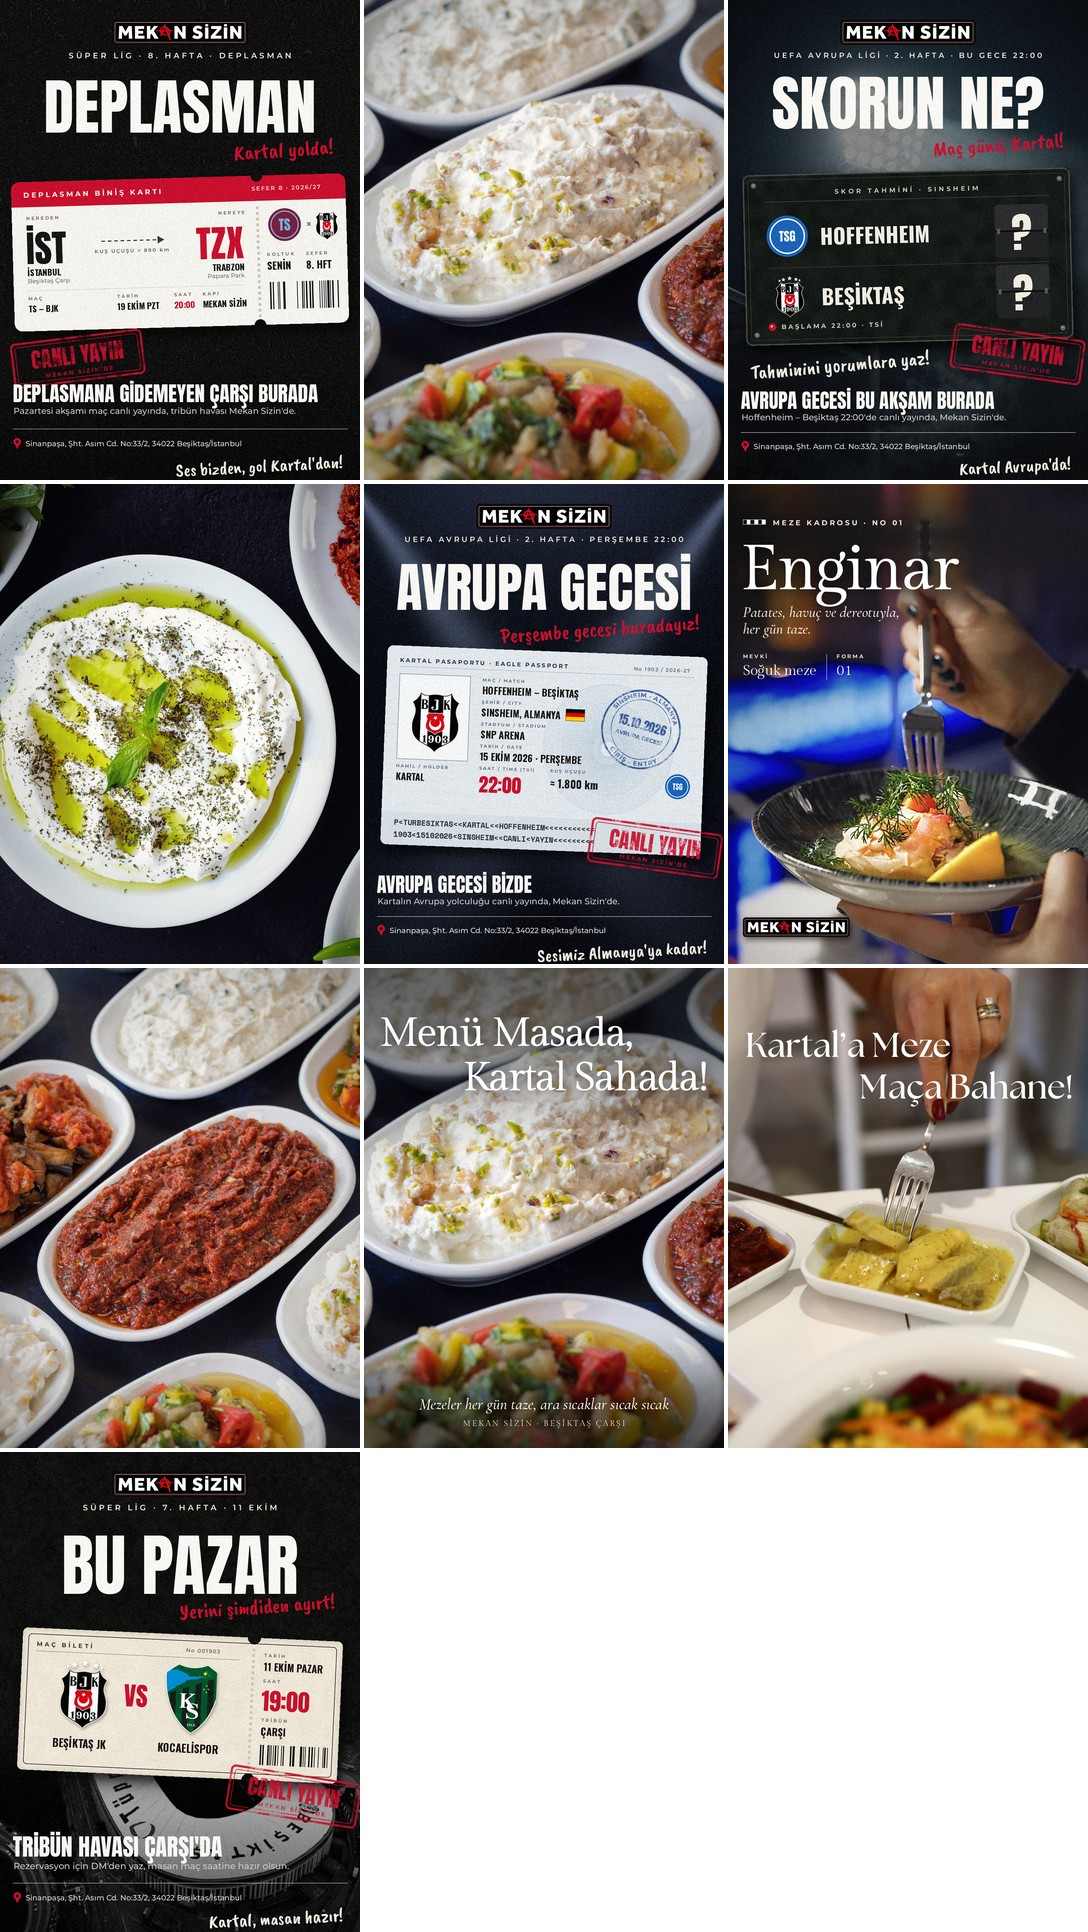
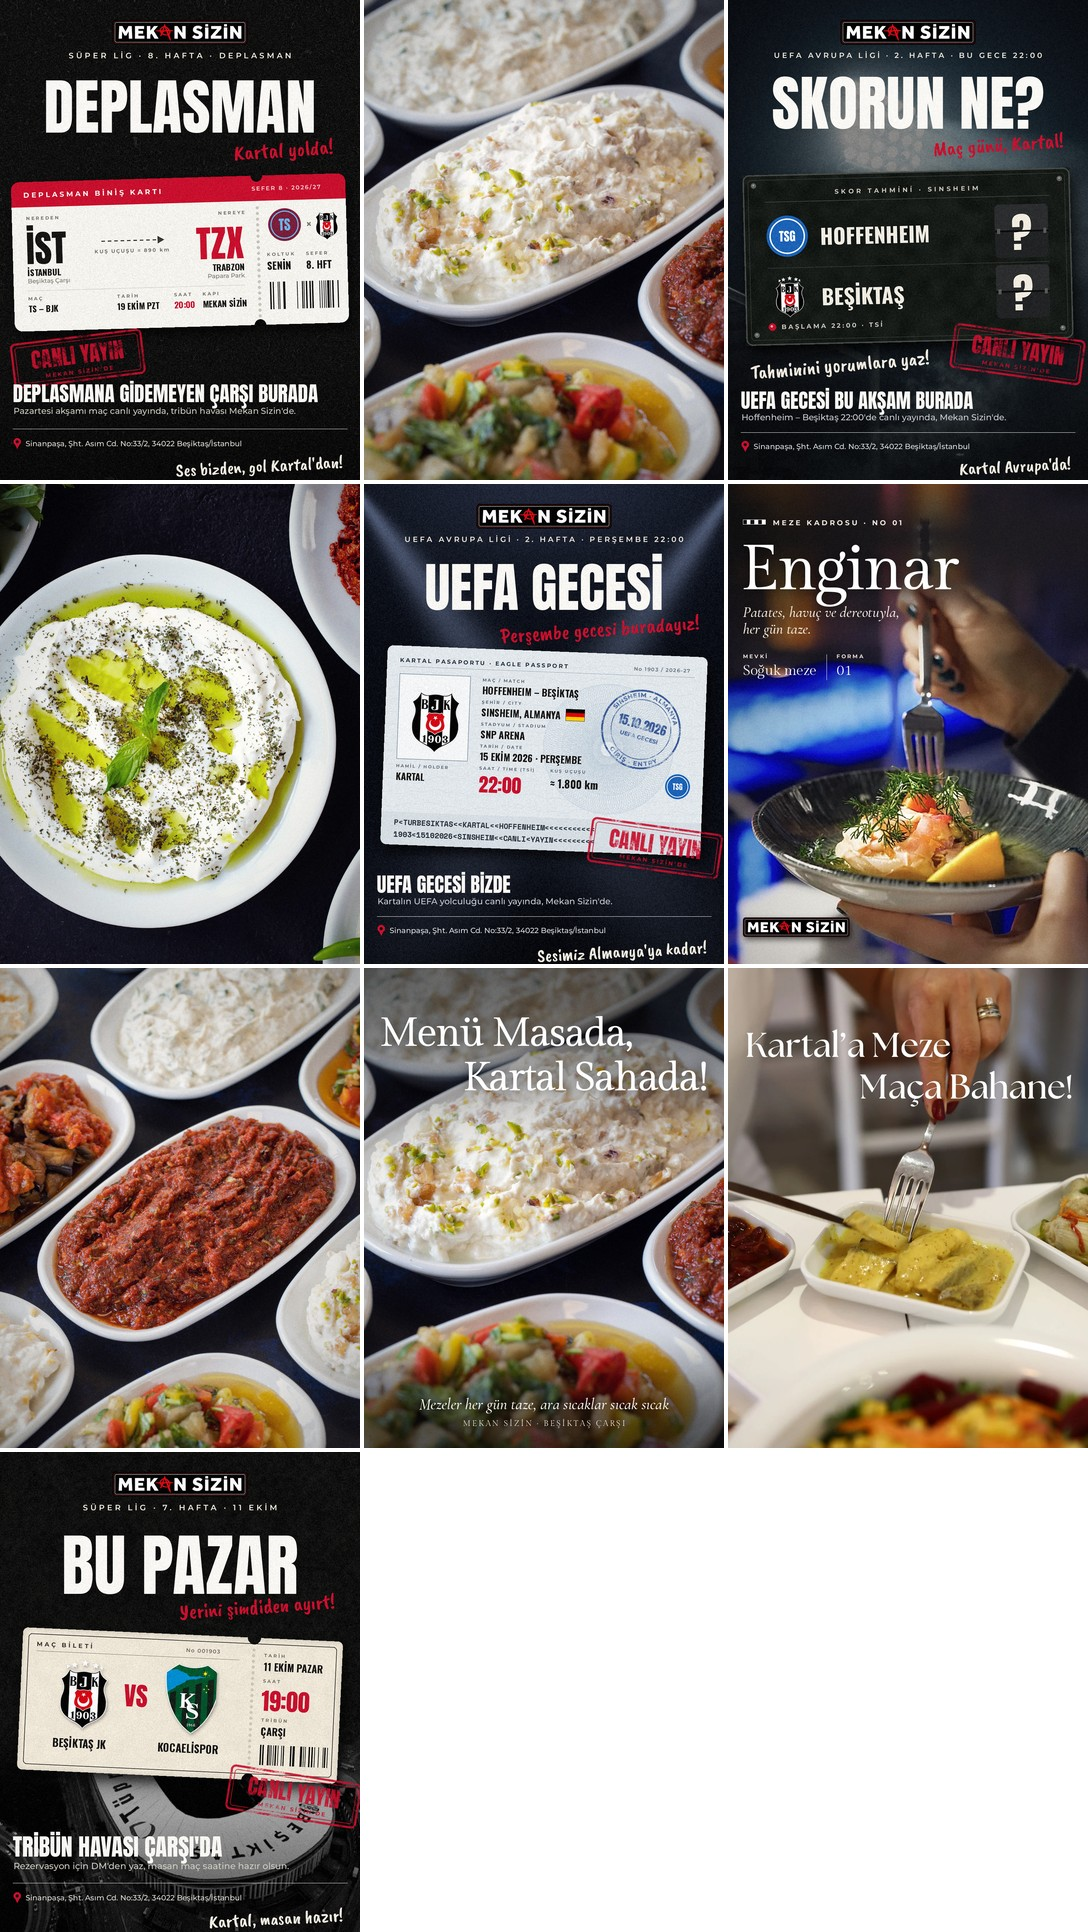
Call the Hoffenheim match a "UEFA gecesi" across the Mekan Sizin posts
The passport reminder's headline, entry stamp, bottom line and subline
now say UEFA instead of Avrupa (the official "UEFA Avrupa Ligi" kicker
stays), and the score prediction post and match-day story follow the
same wording. The passport stamp text is now configurable, and the
captions and the ordered copies are updated.

Claude-Session: https://claude.ai/code/session_01XJxz6TxayURknP2UowWRAx

Changed region(s): [[0.3438, 0.2795, 0.6562, 0.3416], [0.6875, 0.1863, 0.9062, 0.2174], [0.3438, 0.4348, 0.5, 0.4658]]

diff --git a/mekan-sizin/sablon/avrupa.py b/mekan-sizin/sablon/avrupa.py
@@ -168,7 +168,7 @@ def passport(cfg, opp, km):
     d.text((36, ph - 80), mrz(f"P<TUR{cfg['deplasman']}<<KARTAL<<{cfg['ev_sahibi']}"), font=mono, fill=(40, 48, 58))
     d.text((36, ph - 46), mrz(f"1903<{cfg['tarih_mrz']}<{cfg['sehir']}<<CANLI<YAYIN"), font=mono, fill=(40, 48, 58))
 
-    stamp_c = circle_stamp(f"{cfg['sehir']} · {cfg['ulke']}", "GİRİŞ · ENTRY", cfg["tarih_damga"], "AVRUPA GECESİ")
+    stamp_c = circle_stamp(f"{cfg['sehir']} · {cfg['ulke']}", "GİRİŞ · ENTRY", cfg["tarih_damga"], cfg.get("damga_alt", "AVRUPA GECESİ"))
     stamp_c = stamp_c.rotate(-14, resample=Image.BICUBIC, expand=True)
     page.alpha_composite(stamp_c, (pw - stamp_c.width - 40, 70))
     corner = Image.new("L", page.size, 0)

diff --git a/mekan-sizin/haftalik-feed/PAYLASIM-PLANI.md b/mekan-sizin/haftalik-feed/PAYLASIM-PLANI.md
@@ -7,10 +7,10 @@
 | Sıra | Tarih | Saat | Ne paylaşılacak | Dosya (`onumuzdeki-6/`) |
 |---|---|---|---|---|
 | 1 | Salı 13 Ekim | 21:00 | Gönderi: Meze Kadrosu · No 01 – Enginar | `1-sali-13-ekim-meze-kadrosu-enginar.png` |
-| 2 | Çarşamba 14 Ekim | 19:00 | Gönderi: Avrupa gecesi hatırlatma (Hoffenheim–BJK) | `2-carsamba-14-ekim-avrupa-gecesi-hoffenheim.png` |
+| 2 | Çarşamba 14 Ekim | 19:00 | Gönderi: UEFA gecesi hatırlatma (Hoffenheim–BJK) | `2-carsamba-14-ekim-avrupa-gecesi-hoffenheim.png` |
 | 3 | Perşembe 15 Ekim | 12:00 | Gönderi: metinsiz meze yakın çekim | `3-persembe-15-ekim-meze-yakin-cekim.jpg` |
 | 4 | Perşembe 15 Ekim | 17:00 | Gönderi: skor tahmini (maç günü) | `4-persembe-15-ekim-skor-tahmini-hoffenheim.png` |
-| – | Perşembe 15 Ekim | 13:00 ve 20:00 | Story: Avrupa maç günü | `4-story-persembe-15-ekim-avrupa-mac-gunu.png` |
+| – | Perşembe 15 Ekim | 13:00 ve 20:00 | Story: UEFA maç günü | `4-story-persembe-15-ekim-avrupa-mac-gunu.png` |
 | 5 | Cuma 16 Ekim | 18:00 | Gönderi veya Reels: metinsiz meze tabakları | `5-cuma-16-ekim-meze-tabaklari.jpg` / `…-reels.mp4` |
 | 6 | Cumartesi 17 Ekim | 19:00 | Gönderi: deplasman hatırlatma (Trabzonspor–BJK) | `6-cumartesi-17-ekim-deplasman-trabzonspor.png` |
 
@@ -38,10 +38,10 @@ Kadronun bir sonraki yıldızı hangisi olsun? Yorumlara yaz 👇
 Alternatif metin: Elde tutulan tabakta dereotu, havuç ve limonla servis edilen enginar; üstünde "Meze Kadrosu No 01 Enginar" yazısı.
 Yorumlara ilk bir saat içinde cevap verin; en çok istenen meze serinin No 02'si olur.
 
-### 2 – Avrupa gecesi hatırlatma (Çarşamba 19:00)
+### 2 – UEFA gecesi hatırlatma (Çarşamba 19:00)
 
 ```
-Yarın gece Avrupa'dayız! 🦅
+Yarın gece UEFA gecesi! 🦅
 
 Hoffenheim – Beşiktaş
 UEFA Avrupa Ligi · 2. hafta · 15 Ekim Perşembe 22:00
@@ -58,7 +58,7 @@ Story: Gönderiyi story'de paylaşıp **Geri sayım** çıkartması ekleyin (15 
 ```
 Bolca zeytinyağı, bir tutam kuru ot… Maç öncesi masanın olmazsa olmazı.
 
-Bu akşam Avrupa gecesi; masan hazır, mezeler taze. Yerini ayırtmak için DM'den yaz.
+Bu akşam UEFA gecesi; masan hazır, mezeler taze. Yerini ayırtmak için DM'den yaz.
 
 #Meze #MezeKeyfi #BeşiktaşÇarşı #MaçÖncesi #MekanSizin
 ```
@@ -69,7 +69,7 @@ Alternatif metin: Beyaz tabakta zeytinyağı ve kuru otlarla süslenmiş yoğurt
 **13:00 – Story:** `4-story` görseli + boş alana **Soru** çıkartması: "Skor tahminin?"
 **17:00 – Gönderi:**
 ```
-Bu gece Avrupa gecesi! 🦅
+Bu gece UEFA gecesi! 🦅
 
 Hoffenheim – Beşiktaş · 22:00 · canlı yayında
 
